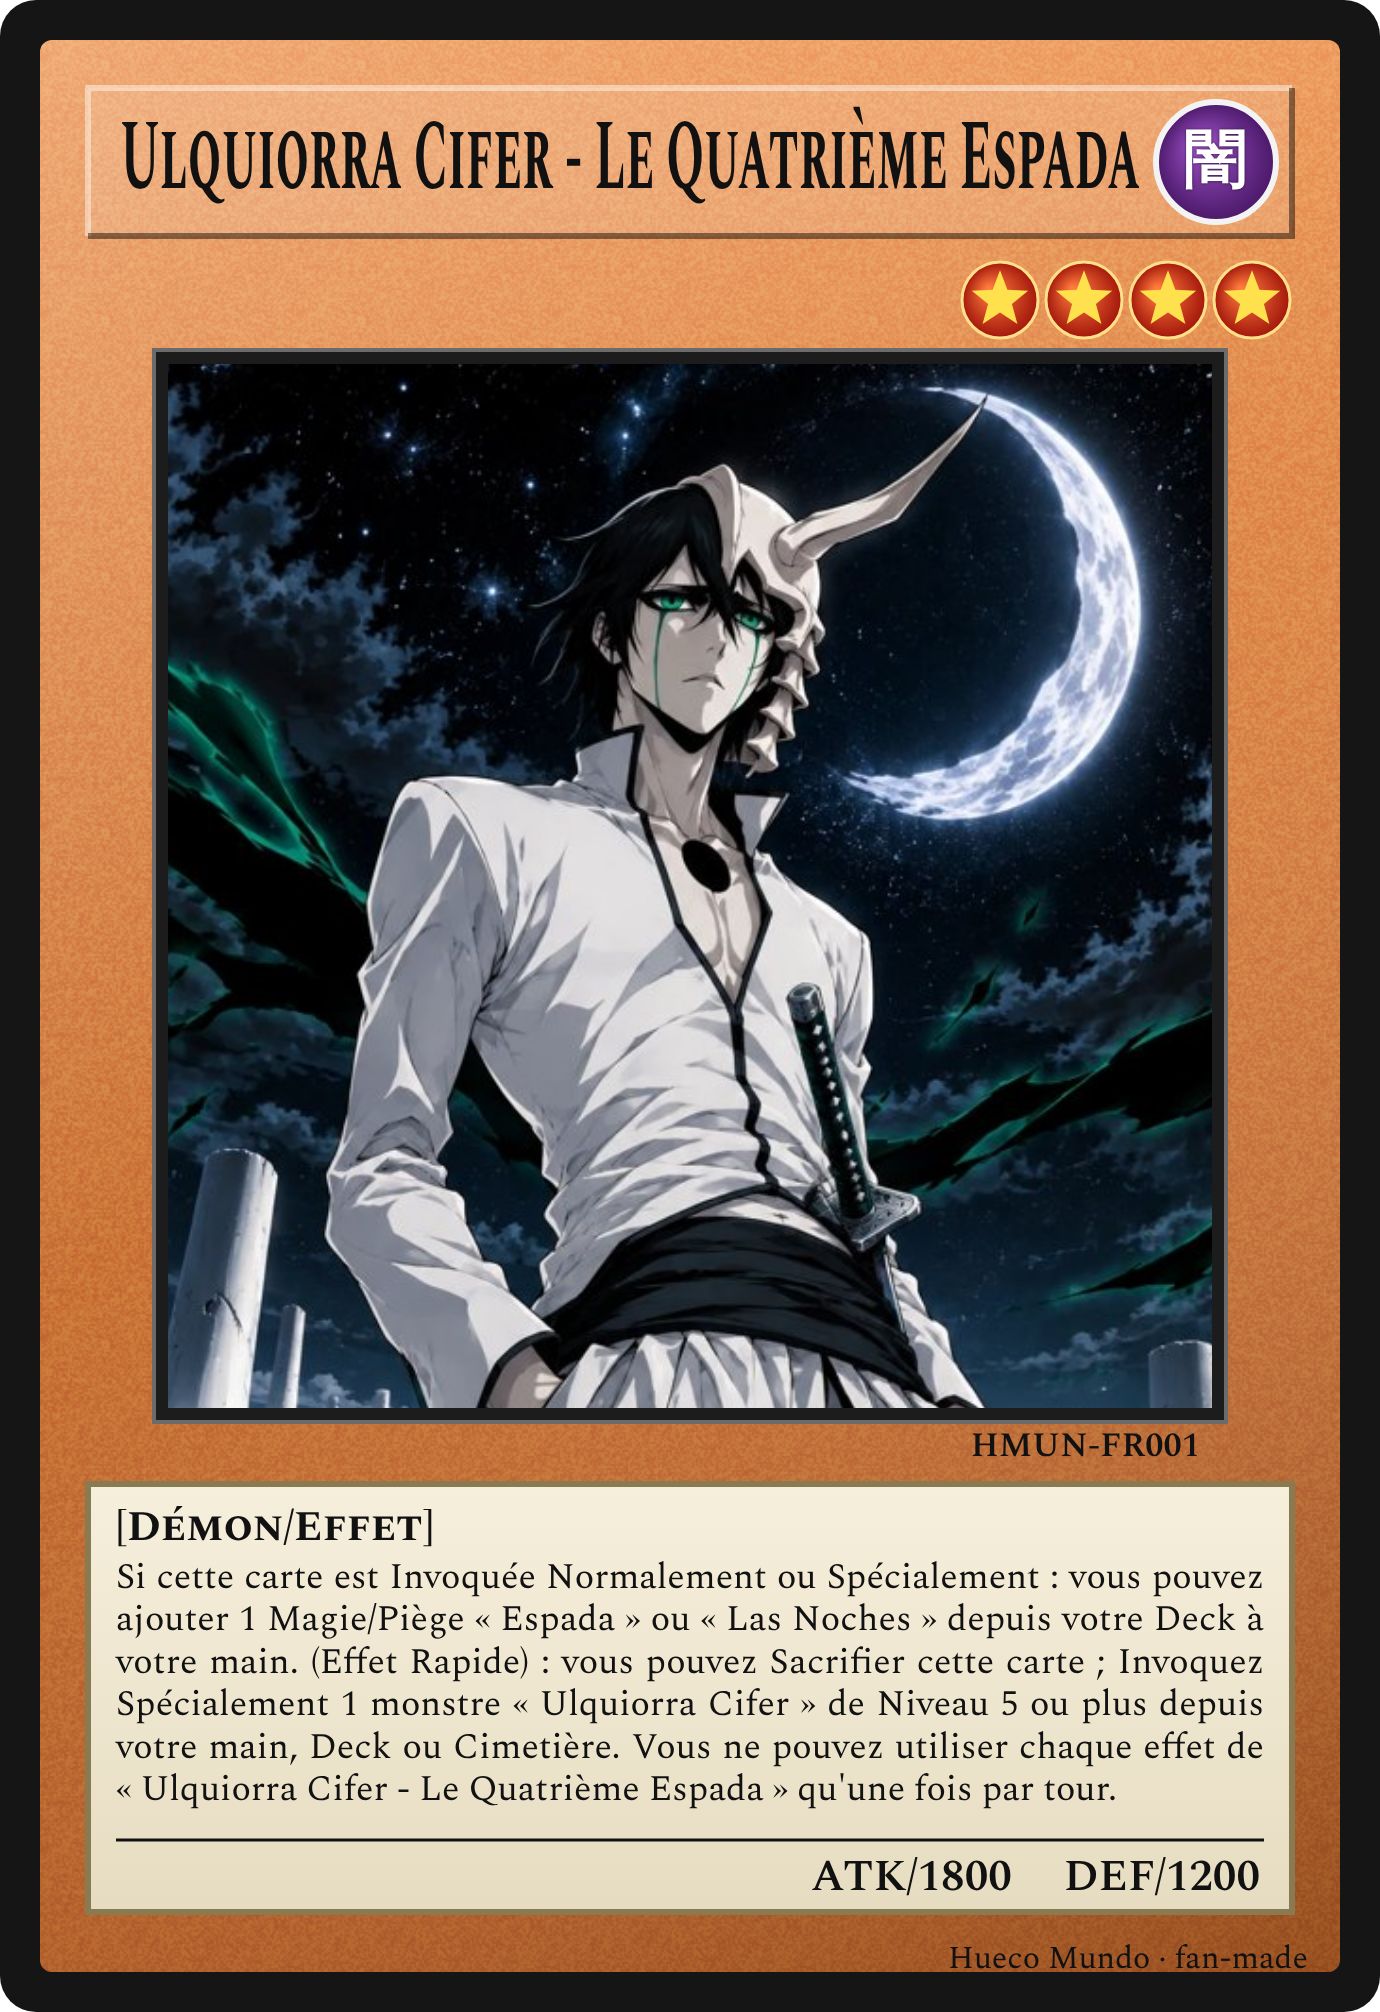
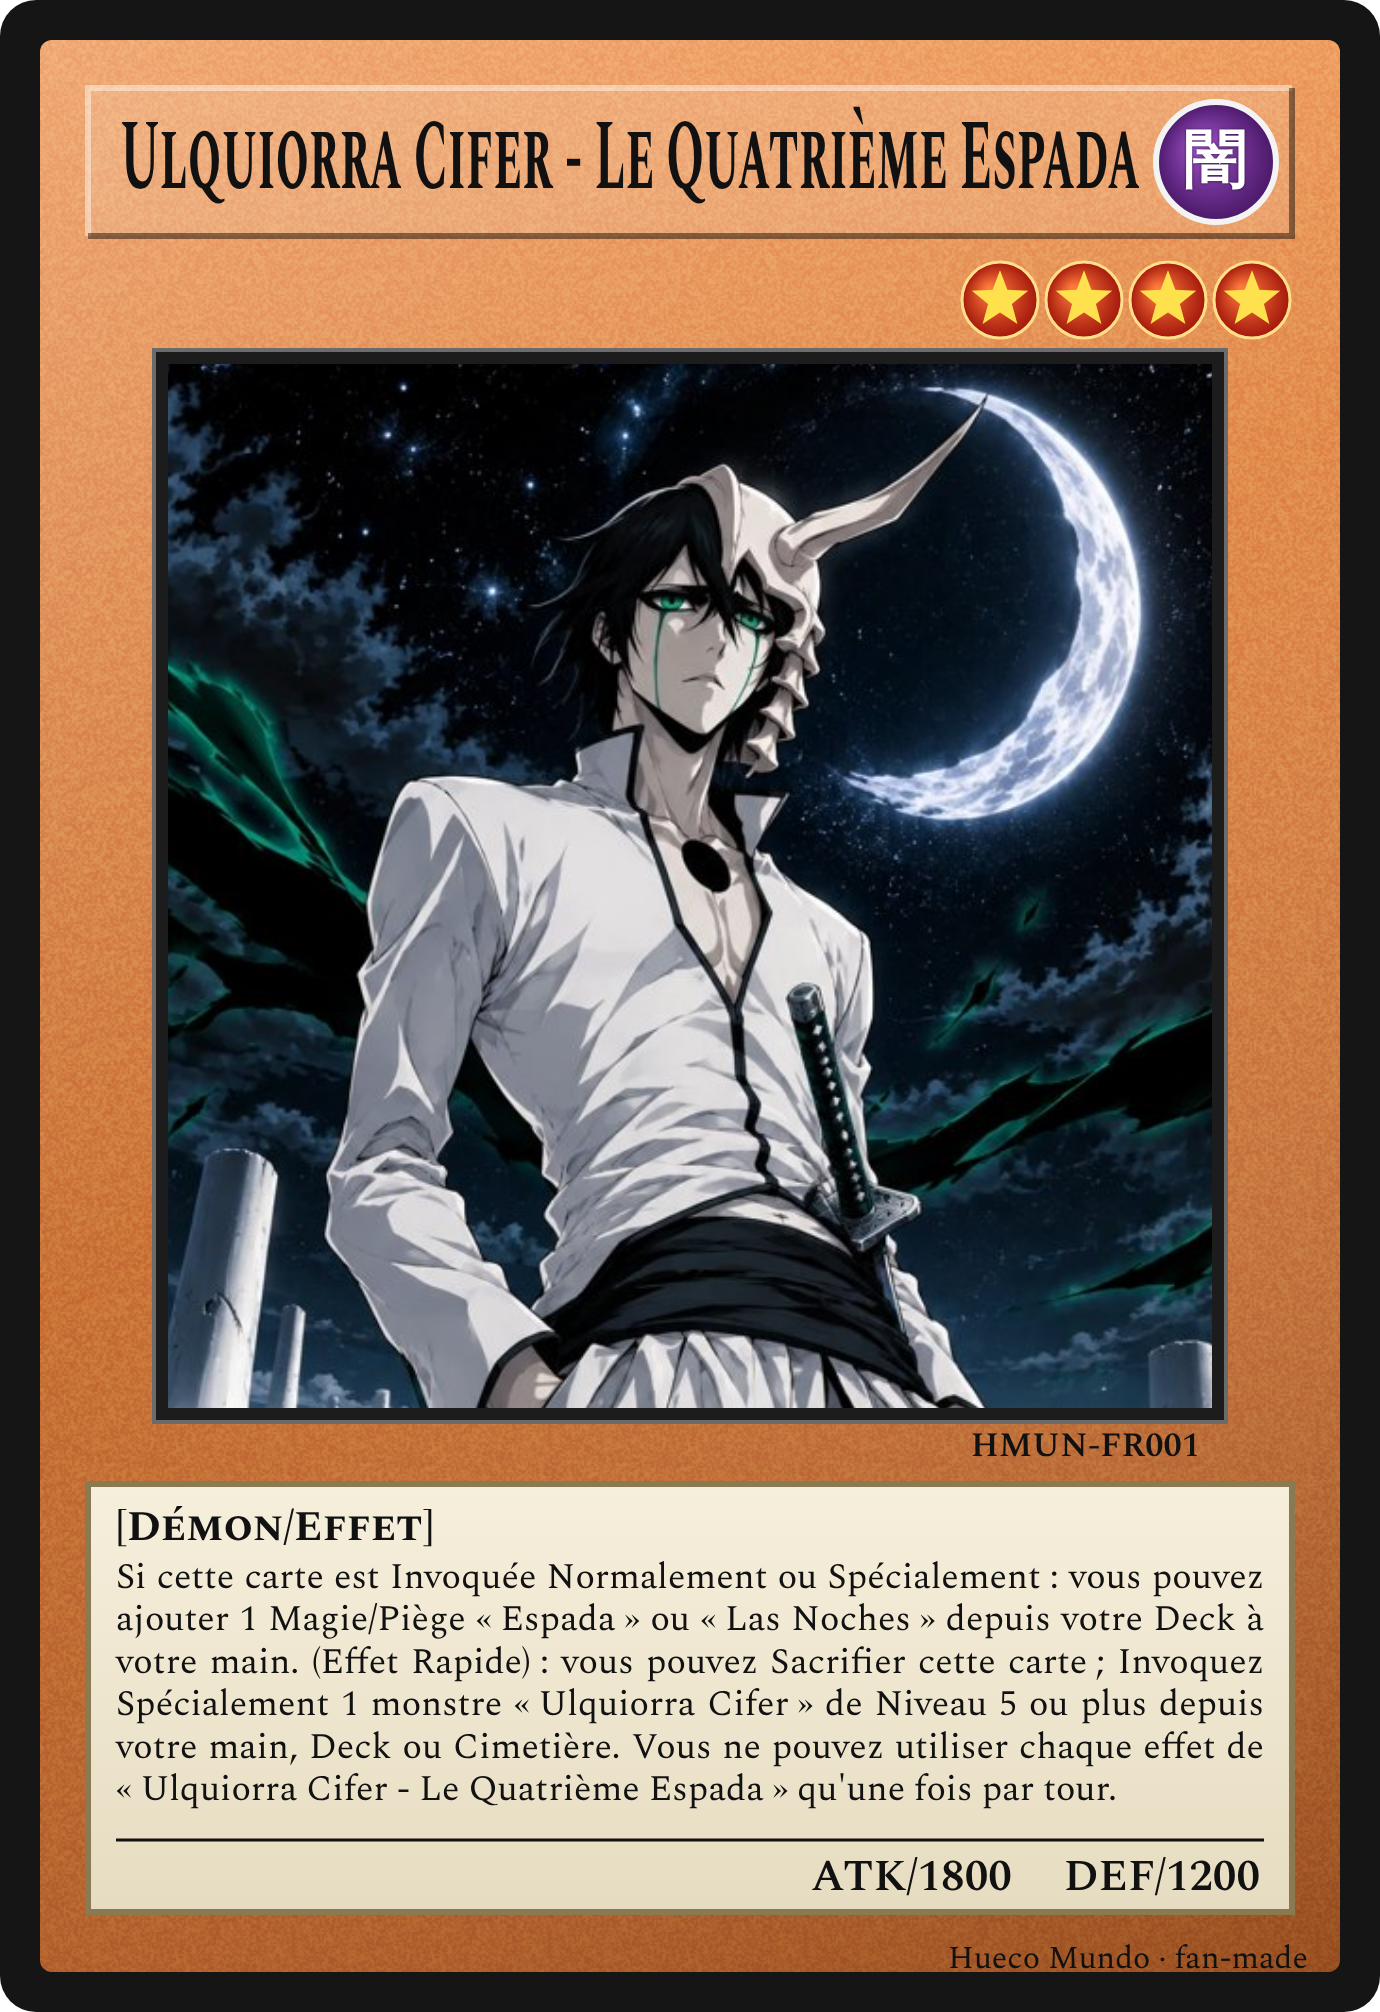
Hueco Mundo : ajoute Las Noches - Palais du Hueco Mundo ; espaces insécables françaises
Claude-Session: https://claude.ai/code/session_01CeiwhQp6R4Er8VccCFyYbK

Changed region(s): [[0.5297, 0.7704, 0.8101, 0.8628], [0.1558, 0.8012, 0.4674, 0.8628], [0.4674, 0.8012, 0.4986, 0.832]]

diff --git a/index.html b/index.html
@@ -594,8 +594,10 @@ function nameFill(dark) {
 // texte justifié avec réduction automatique
 function wrap(g, text, maxW) {
   const lines = [];
+  // espaces insécables à la française : « Nom », avant « : » et « ; »
+  text = text.replace(/« +/g, "«\u00A0").replace(/ +»/g, "\u00A0»").replace(/ +([:;!?])/g, "\u00A0$1");
   text.split("\n").forEach((para) => {
-    const words = para.split(/\s+/).filter(Boolean); if (!words.length) { lines.push({ words: [], last: true }); return; }
+    const words = para.split(/[ \t]+/).filter(Boolean); if (!words.length) { lines.push({ words: [], last: true }); return; }
     let cur = [];
     words.forEach((w) => { const t = [...cur, w].join(" "); if (cur.length && g.measureText(t).width > maxW) { lines.push({ words: cur, last: false }); cur = [w]; } else cur.push(w); });
     lines.push({ words: cur, last: true });

diff --git a/src/customizer.html b/src/customizer.html
@@ -587,8 +587,10 @@ function nameFill(dark) {
 // texte justifié avec réduction automatique
 function wrap(g, text, maxW) {
   const lines = [];
+  // espaces insécables à la française : « Nom », avant « : » et « ; »
+  text = text.replace(/« +/g, "«\u00A0").replace(/ +»/g, "\u00A0»").replace(/ +([:;!?])/g, "\u00A0$1");
   text.split("\n").forEach((para) => {
-    const words = para.split(/\s+/).filter(Boolean); if (!words.length) { lines.push({ words: [], last: true }); return; }
+    const words = para.split(/[ \t]+/).filter(Boolean); if (!words.length) { lines.push({ words: [], last: true }); return; }
     let cur = [];
     words.forEach((w) => { const t = [...cur, w].join(" "); if (cur.length && g.measureText(t).width > maxW) { lines.push({ words: cur, last: false }); cur = [w]; } else cur.push(w); });
     lines.push({ words: cur, last: true });

diff --git a/archetypes/hueco-mundo/FICHE.md b/archetypes/hueco-mundo/FICHE.md
@@ -22,7 +22,7 @@ Thème : *Bleach*, le monde des Hollows et des Arrancars. Usage : parties amical
 | HMUN-FR001 | Ulquiorra Cifer - Le Quatrième Espada | Monstre à Effet, Niv. 4, 1800/1200 | Terminée |
 | à venir | « Ulquiorra Cifer » Resurrección : Murciélago | Monstre « Ulquiorra Cifer » Niv. 5+ | Cible de FR001 |
 | à venir | Segunda Etapa | Magie ou Piège « Espada » ? | Boucle de transformation |
-| à venir | Las Noches | Magie de Terrain | Cible de recherche de FR001 |
+| HMUN-FR002 | Las Noches - Palais du Hueco Mundo | Magie de Terrain | Texte validé · visuel à venir |
 
 ## Brief visuel
 
@@ -31,7 +31,15 @@ Ulquiorra en tenue blanche d'Arrancar, mains dans les poches du hakama, visage s
 lignes de larmes vertes sur les joues, reste de masque de Hollow sur la tête. Désert de sable blanc sous un ciel
 nocturne étoilé et un croissant de lune inversé. Contours marqués, éclairage dramatique, halo de Reiatsu discret.
 
+## Mécaniques transversales
+
+- « Las Noches » dans le Cimetière : sert de condition à d'autres cartes « Ulquiorra Cifer » (résurrection, recyclage).
+  Ce texte figurera sur ces cartes-là, pas sur Las Noches.
+
 ## Points de vigilance (équilibrage)
+
+- FR002 : la boucle FR001 → Las Noches → monstre « Ulquiorra Cifer »/« Espada » coûte 1 défausse, c'est le prix voulu.
+  La résurrection quand Las Noches quitte le Terrain est limitée au Niveau 4 ou moins pour ne pas ramener Murciélago gratuitement.
 
 - FR001 : sa recherche + son Effet Rapide depuis le Deck en font une carte très forte en un seul exemplaire Normal.
   Si la forme Niv. 5+ s'avère trop puissante, limiter l'Invocation Spéciale à « main ou Cimetière ».
